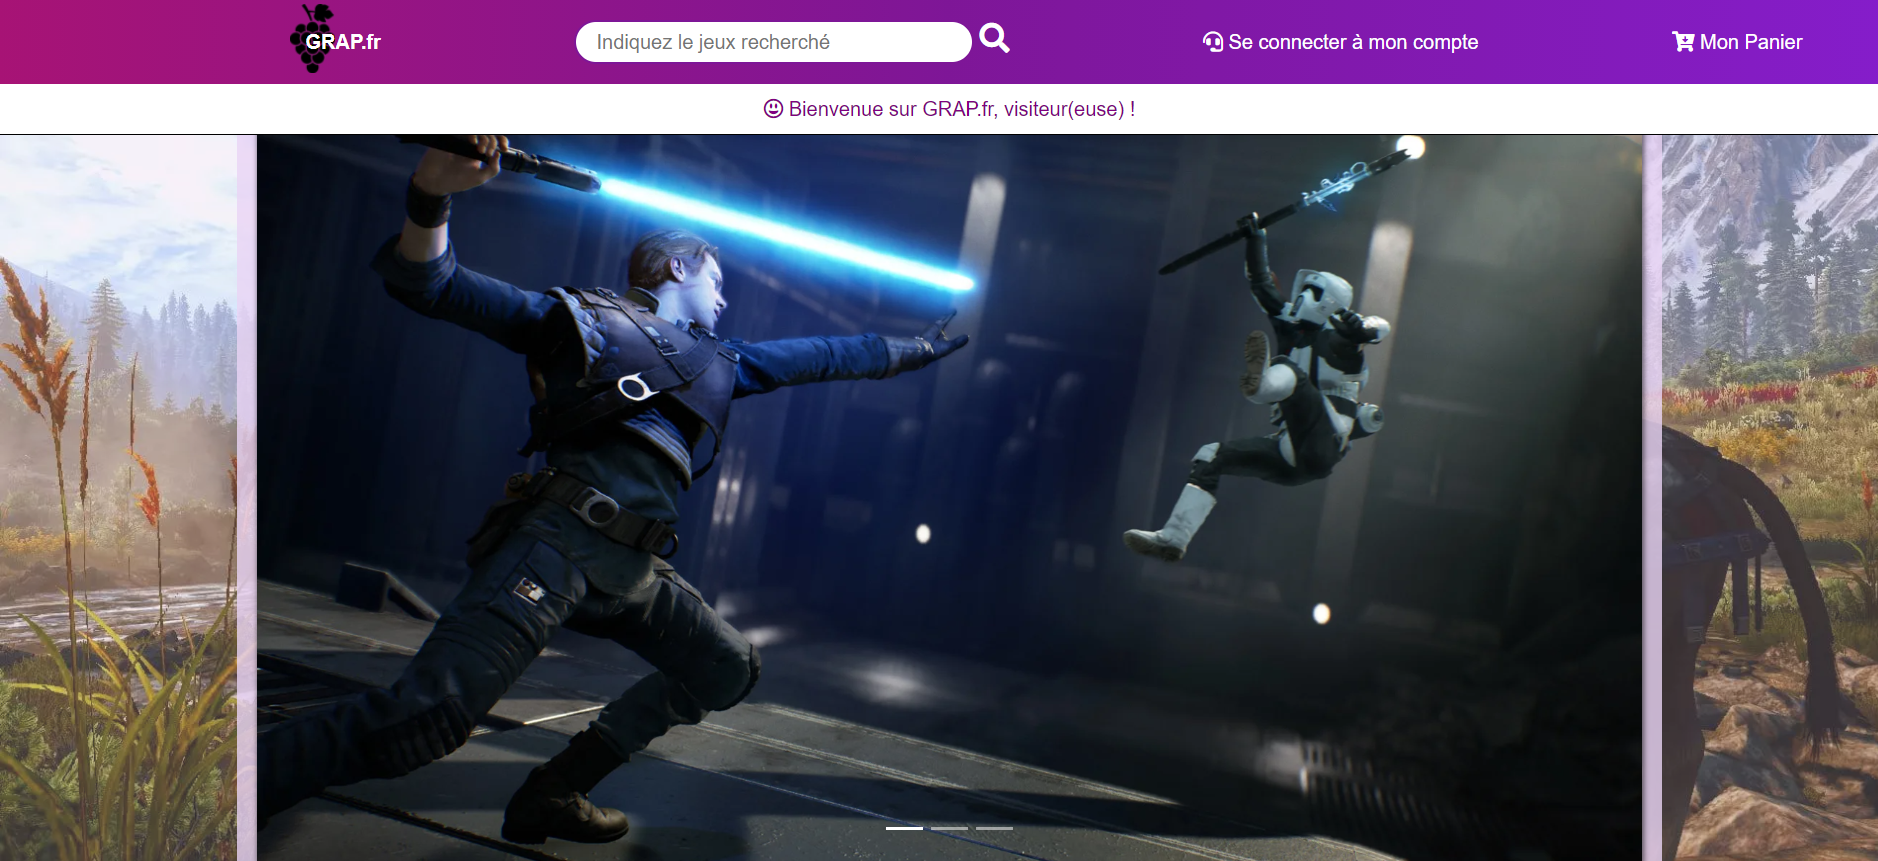
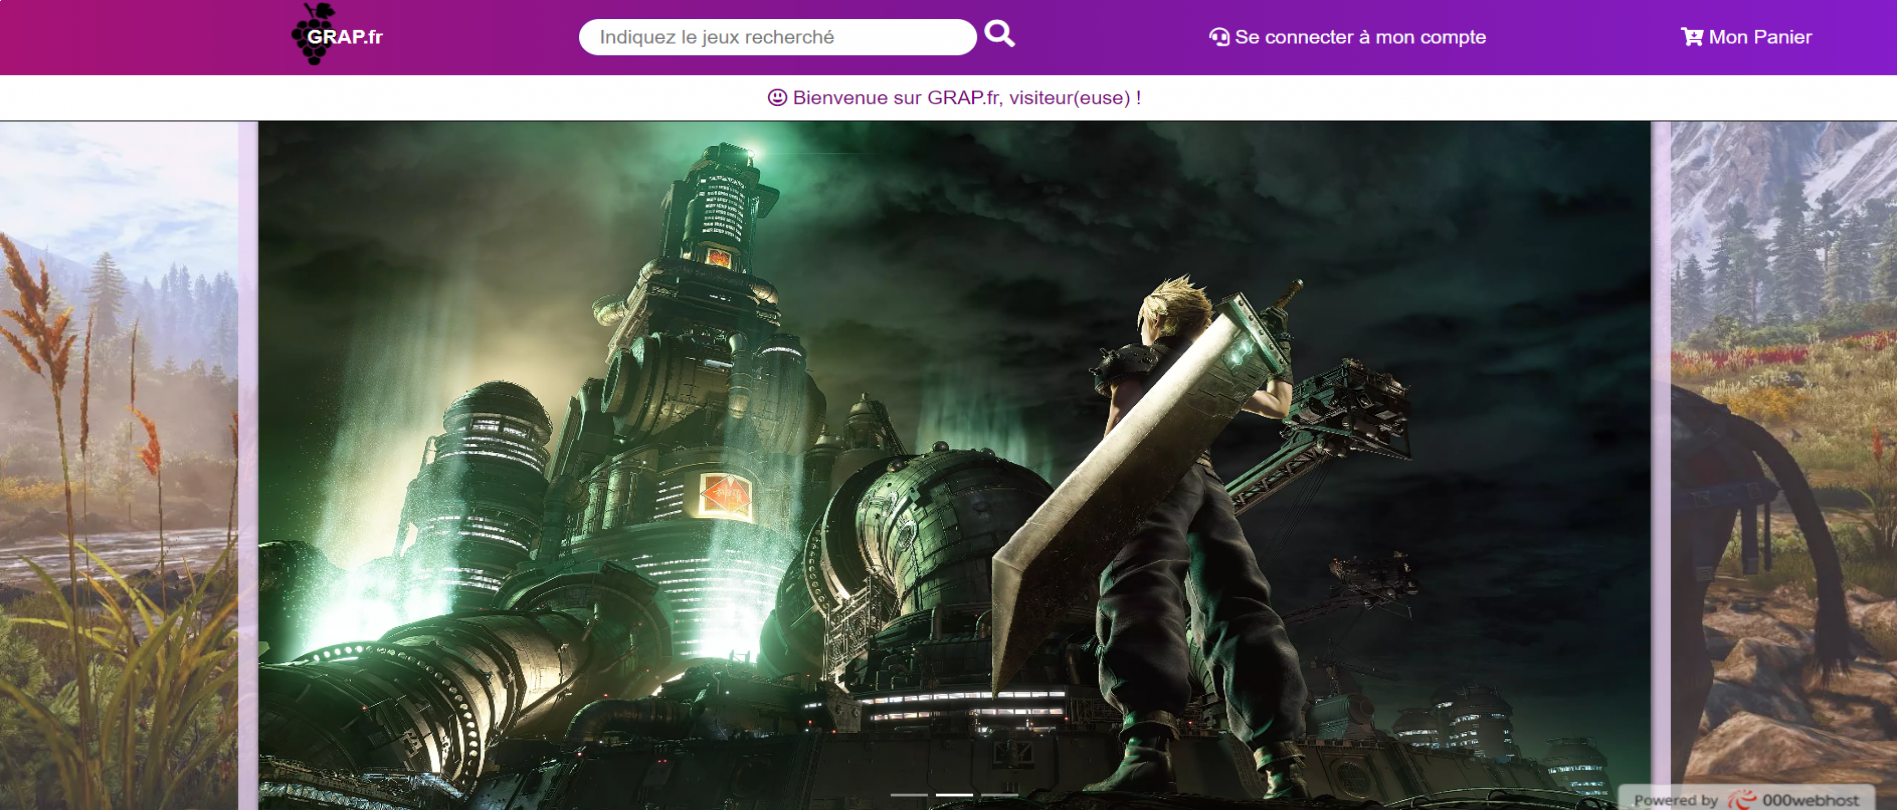
ajoute une image et fixe les bugs

diff --git a/css/styles.css b/css/styles.css
@@ -604,8 +604,7 @@ input[type="number"] {
 /* Tablet portrait */
 
 {
-     /* ======== burger menu ========== */
-
+    /* ======== burger menu ========== */
     .top-nav {
         width: 100%;
         height: 100vh;
@@ -637,7 +636,6 @@ input[type="number"] {
         padding: 1rem;
         border: none;
     }
- 
     /* .header .top-nav ul li a:hover {
         background: linear-gradient(to right, #ffa217, #232943);
         -webkit-transition: all 2s;
@@ -720,7 +718,8 @@ input[type="number"] {
         margin-top: 7px;
         height: 100%;
         width: 100%;
-        margin-left: 15px;
+        margin-left: -15px;
+        align-items: center;
     }
     #technology .php img {
         max-width: 90px;
@@ -765,8 +764,7 @@ input[type="number"] {
 /* Mobile landscape */
 
 {
-     /* ======== burger menu ========== */
-
+    /* ======== burger menu ========== */
     .top-nav {
         width: 100%;
         height: 95vh;
@@ -852,8 +850,7 @@ input[type="number"] {
     .open .bar.end {
         transform: rotate(-450deg) translateX(-11px);
     }
-     /* ======== loader ========== */
-
+    /* ======== loader ========== */
     .menu_list .loader {
         position: absolute;
         left: 90%;
@@ -862,8 +859,7 @@ input[type="number"] {
         height: 50px;
         border-radius: 50%;
     }
-     /* ======== header ========== */
-    
+    /* ======== header ========== */
     .header .menu_list ul li a {
         border: none;
     }
@@ -879,12 +875,12 @@ input[type="number"] {
     #abouts h2 {
         font-size: large;
     }
-     /* ======== technology ========== */
+    /* ======== technology ========== */
     #technology i {
         font-size: 3.5em;
     }
     #technology .php {
-        margin-left: 30px;
+        margin-left: 26px;
     }
     #technology .php img {
         max-width: 80px;
@@ -898,7 +894,8 @@ input[type="number"] {
         height: 100%;
     }
     #technology .mysql {
-        margin-left: 30px;
+        display: flex;
+        align-items: center;
     }
     #technology .mysql img {
         max-width: 100px;
@@ -919,13 +916,16 @@ input[type="number"] {
         height: 60px;
     }
     #projet {
-        margin-top: 40%;
+        margin-top: 55%;
     }
     #projet h3 {
         font-size: large;
     }
     #projet .card {
         margin-bottom: 10%;
+    }
+    #projet .card h5 {
+        font-size: large;
     }
     #form {
         padding: 60% 0px 200px 0;
@@ -951,7 +951,6 @@ input[type="number"] {
     .header .menu_list ul li a {
         border: none;
     }
-
     /* ======== Jumborton ========== */
     .banner a {
         padding: 10px 16px 10px 16px;
@@ -982,6 +981,8 @@ input[type="number"] {
     /* ======== Technology ========== */
     #technology i {
         font-size: 3rem;
+        display: flex;
+        justify-content: center;
     }
     #technology .aws {
         margin-top: 7px;
@@ -989,10 +990,10 @@ input[type="number"] {
         width: 100%;
         display: flex;
         justify-content: center;
-        margin-left: 15px;
+        margin-left: 5px;
     }
     #technology .aws img {
-        max-width: 100px;
+        max-width: 133px;
         width: auto;
         height: 55px;
     }
@@ -1000,7 +1001,7 @@ input[type="number"] {
         height: 100%;
         width: 100%;
         display: flex;
-        justify-content: center;
+        justify-content: flex-start;
     }
     #technology .mysql img {
         max-width: 80px;
@@ -1008,7 +1009,7 @@ input[type="number"] {
         height: 70px;
     }
     #technology .sass {
-        margin-left: -5%;
+        margin-left: 9%;
     }
     #technology .wordpress {
         margin-left: -5%;
@@ -1017,7 +1018,8 @@ input[type="number"] {
         height: 100%;
         width: 100%;
         display: flex;
-        justify-content: center;
+        align-items: center;
+        margin-left: 8px;
     }
     #technology .php img {
         max-width: 65px;
@@ -1037,8 +1039,7 @@ input[type="number"] {
         margin: 100% 0 0 0;
     }
     #form {
-        margin: 80% 0 20% 0%;
-        padding: 70% 0px 30% 0;
+        margin: 200% 0 20% 0%;
     }
 }
 
@@ -1056,7 +1057,6 @@ input[type="number"] {
     }
     /* ======== Jumborton ======== */
     .banner {
-
         text-align: center;
     }
     .banner .header-text p {
@@ -1071,8 +1071,7 @@ input[type="number"] {
         width: calc(100% + 52px);
     }
     .section-title h2 {
-        font-size: 18px;
-        margin-left: 12%;
+        font-size: large;
     }
     /* ======== Technology ======== */
     #technology i {
@@ -1084,7 +1083,7 @@ input[type="number"] {
         display: flex;
         justify-content: center;
         margin-top: -2px;
-        margin-left: 30px;
+        margin-left: 10px;
     }
     #technology .aws img {
         max-width: 100px;
@@ -1096,7 +1095,6 @@ input[type="number"] {
         width: 100%;
         display: flex;
         justify-content: center;
-        margin-left: 35px;
     }
     #technology .php img {
         max-width: 60px;
@@ -1108,22 +1106,15 @@ input[type="number"] {
         width: 100%;
         display: flex;
         justify-content: center;
-        margin-left: 35px;
+        margin-left: 10px;
     }
     #technology .mysql img {
-        max-width: 80px;
+        max-width: 65px;
         width: auto;
         height: 110px;
     }
     /* ======== Projet ======== */
-    #projet {
-        margin-left: 17%;
-    }
     #projet h3 {
         font-size: 20px;
-    }
-    #form {
-        margin-left: 17%;
-        padding-bottom: 30%;
     }
 }

diff --git a/index.html b/index.html
@@ -100,7 +100,7 @@
 
             <div class="row">
 
-                <div class="col-12 col-md-12 social d-flex justify-content-center" data-aos="fade-left" data-aos-duration="1400">
+                <div class="col-12 col-md-12 social d-flex justify-content-center">
 
                     <a href="https://github.com/alirezasyed"><i class="fab fa-github"></i></a>
                     <a href="https://www.linkedin.com/in/ali-raza-syed/"><i class="fab fa-linkedin"></i></a>
@@ -115,17 +115,17 @@
 
                     <div class="header-text d-grid gap-3">
 
-                        <div class="col-md-12" data-aos="fade-right" data-aos-duration="1400">
+                        <div class="col-md-12">
                             <h1 class="text-uppercase text-white">
                                 &lt ali reza syed / &gt
                             </h1>
                         </div>
 
-                        <div class="col-md-12" data-aos="fade-left" data-aos-duration="1400">
+                        <div class="col-md-12">
                             <P>&lt Je suis un développeur web full stack / &gt</P>
                         </div>
 
-                        <div class="col-md-12" data-aos="fade-right" data-aos-duration="1400">
+                        <div class="col-md-12">
                             <p class="lead">&lt Coding est ma passion &gt</p>
                         </div>
 
@@ -395,7 +395,7 @@
 
                             <div class="card-body">
                                 <h5 class="card-title text-center">Bakery</h5>
-                                <a href="https://bakerysiteacs.netlify.app/" class="btn btn-outline-secondary" target="_blank">Website</a>
+                                <a href="https://bakerysiteacs.netlify.app/" class="btn btn-outline-secondary" target="_blank">Site</a>
                                 <a href="https://github.com/alirezasyed/bakery-template" class="git btn btn-outline-secondary" target="_blank">GitHub</a>
                             </div>
 
@@ -411,7 +411,7 @@
 
                             <div class="card-body">
                                 <h5 class="card-title text-center">Bomber Man</h5>
-                                <a href="https://javascriptbomberman.netlify.app/" class="btn btn-outline-secondary" target="_blank">Website</a>
+                                <a href="https://javascriptbomberman.netlify.app/" class="btn btn-outline-secondary" target="_blank">Site</a>
                                 <a href="https://github.com/alirezasyed/javascript_bomberman" class="git btn btn-outline-secondary" target="_blank">GitHub</a>
                             </div>
 
@@ -427,7 +427,7 @@
 
                             <div class="card-body d-flex flex-column align-content-around">
                                 <h5 class="card-title text-center">Hmtech</h5>
-                                <a href="#" class="btn btn-outline-secondary">Website</a>
+                                <a href="#" class="btn btn-outline-secondary">Site</a>
                             </div>
 
                         </div>
@@ -435,15 +435,15 @@
                     </div>
 
 
-                    <div class="col-sm-6 mx-auto col-md-4">
+                    <div class="col-sm-6 mx-auto col-md-4" data-aos="fade-up" data-aos-duration="1400">
 
                         <div class="card hmtech">
 
                             <img src="images/catalog.png" class="card-img-top" alt="catalog">
 
                             <div class="card-body d-flex flex-column align-content-around">
-                                <h5 class="card-title">Catalog</h5>
-                                <a href="https://catalogphp.000webhostapp.com/" class="btn btn-outline-secondary" target="_blank">Let's Click</a>
+                                <h5 class="card-title text-center">Catalog</h5>
+                                <a href="https://catalogphp.000webhostapp.com/" class="btn btn-outline-secondary" target="_blank">Site</a>
                             </div>
 
                         </div>
